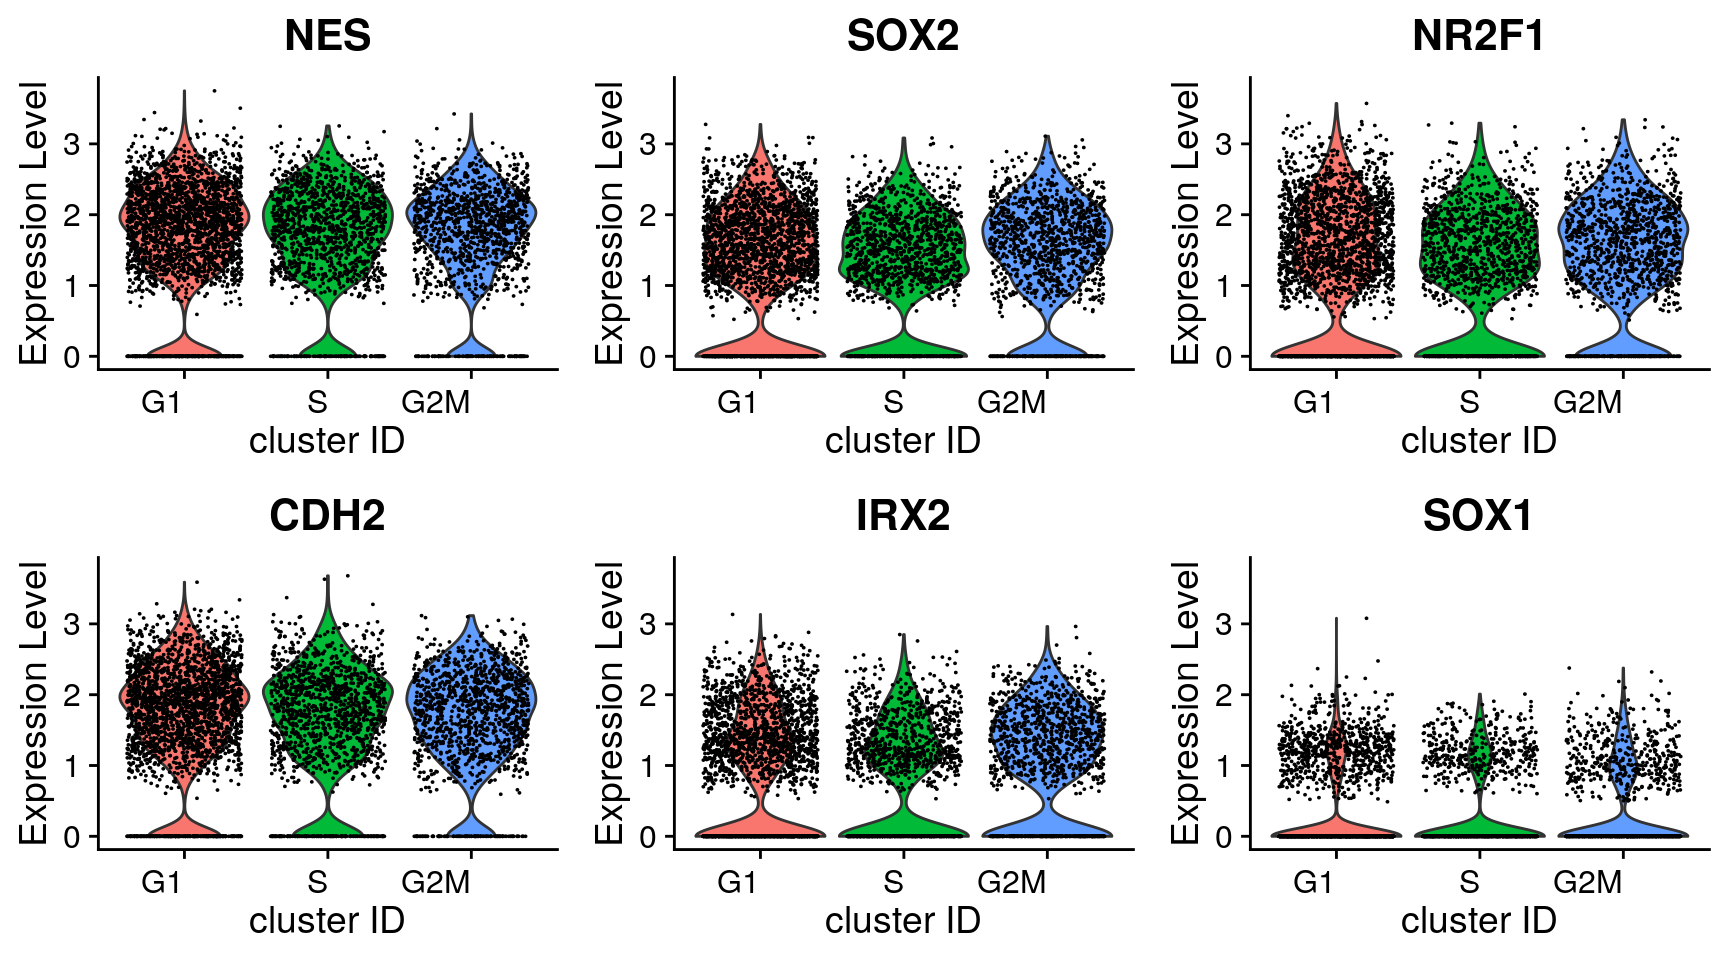
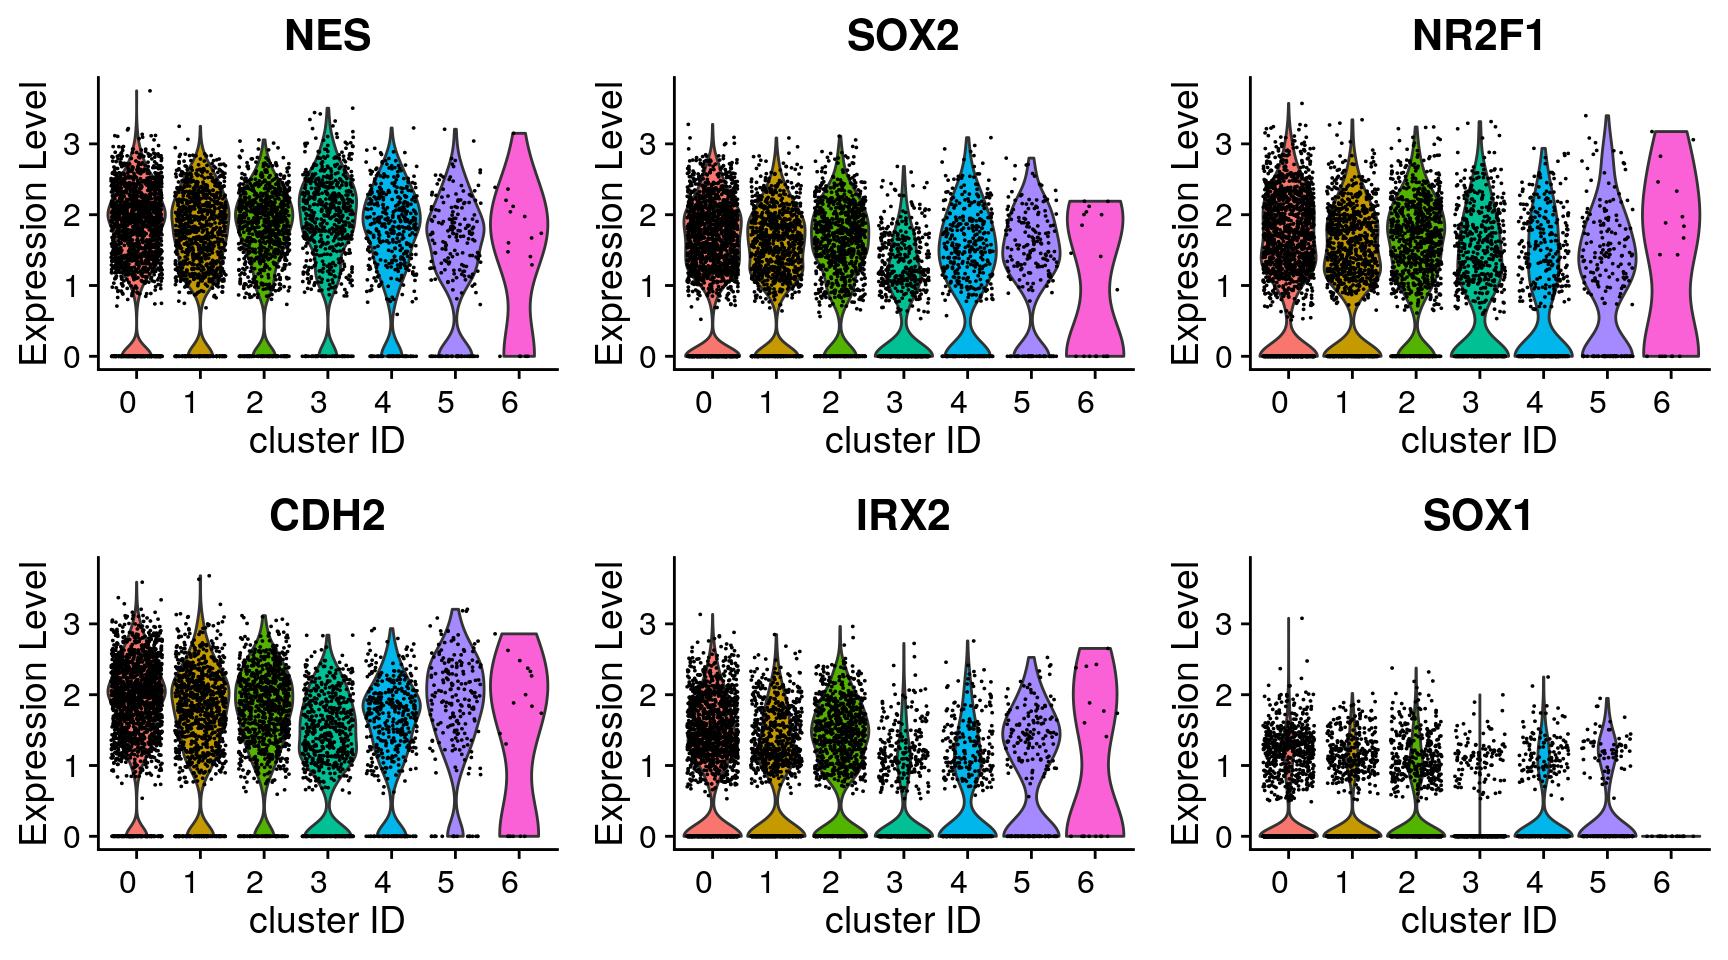
Build site.

diff --git a/docs/NSC-2-annotation.html b/docs/NSC-2-annotation.html
@@ -412,7 +412,7 @@ div.tocify {
 <div class="tab-content">
 <div id="summary" class="tab-pane fade in active">
 <p>
-<strong>Last updated:</strong> 2021-08-24
+<strong>Last updated:</strong> 2021-08-25
 </p>
 <p>
 <strong>Checks:</strong> <span class="glyphicon glyphicon-ok text-success" aria-hidden="true"></span> 7 <span class="glyphicon glyphicon-exclamation-sign text-danger" aria-hidden="true"></span> 0
@@ -503,16 +503,16 @@ This reproducible <a href="http://rmarkdown.rstudio.com">R Markdown</a> analysis
 <div class="panel panel-default">
 <div class="panel-heading">
 <p class="panel-title">
-<a data-toggle="collapse" data-parent="#workflowr-checks" href="#strongRepositoryversionstrongahrefhttpsgithubcomkhembachneuralscRNAseqtreeff22f3d96957f547ed335891afe3a4840c6cc7fetargetblankff22f3da"> <span class="glyphicon glyphicon-ok text-success" aria-hidden="true"></span> <strong>Repository version:</strong> <a href="https://github.com/khembach/neural_scRNAseq/tree/ff22f3d96957f547ed335891afe3a4840c6cc7fe" target="_blank">ff22f3d</a> </a>
+<a data-toggle="collapse" data-parent="#workflowr-checks" href="#strongRepositoryversionstrongahrefhttpsgithubcomkhembachneuralscRNAseqtreeaac74150e9894cb0ffb893fce12749a13025c8d8targetblankaac7415a"> <span class="glyphicon glyphicon-ok text-success" aria-hidden="true"></span> <strong>Repository version:</strong> <a href="https://github.com/khembach/neural_scRNAseq/tree/aac74150e9894cb0ffb893fce12749a13025c8d8" target="_blank">aac7415</a> </a>
 </p>
 </div>
[2 lines of base64/hex data omitted]
 <div class="panel-body">
 <p>
 Great! You are using Git for version control. Tracking code development and connecting the code version to the results is critical for reproducibility.
 </p>
 <p>
-The results in this page were generated with repository version <a href="https://github.com/khembach/neural_scRNAseq/tree/ff22f3d96957f547ed335891afe3a4840c6cc7fe" target="_blank">ff22f3d</a>. See the <em>Past versions</em> tab to see a history of the changes made to the R Markdown and HTML files.
+The results in this page were generated with repository version <a href="https://github.com/khembach/neural_scRNAseq/tree/aac74150e9894cb0ffb893fce12749a13025c8d8" target="_blank">aac7415</a>. See the <em>Past versions</em> tab to see a history of the changes made to the R Markdown and HTML files.
 </p>
 <p>
 Note that you need to be careful to ensure that all relevant files for the analysis have been committed to Git prior to generating the results (you can use <code>wflow_publish</code> or <code>wflow_git_commit</code>). workflowr only checks the R Markdown file, but you know if there are other scripts or data files that it depends on. Below is the status of the Git repository when the results were generated:
@@ -903,6 +903,40 @@ Message
 Rmd
 </td>
 <td>
+<a href="https://github.com/khembach/neural_scRNAseq/blob/aac74150e9894cb0ffb893fce12749a13025c8d8/analysis/NSC-2-annotation.Rmd" target="_blank">aac7415</a>
+</td>
+<td>
+khembach
+</td>
+<td>
+2021-08-25
+</td>
+<td>
+fix ident
+</td>
+</tr>
+<tr>
+<td>
+html
+</td>
+<td>
+<a href="https://rawcdn.githack.com/khembach/neural_scRNAseq/d710af57ae258e89bab8a6e8c62654a77465197a/docs/NSC-2-annotation.html" target="_blank">d710af5</a>
+</td>
+<td>
+khembach
+</td>
+<td>
+2021-08-24
+</td>
+<td>
+Build site.
+</td>
+</tr>
+<tr>
+<td>
+Rmd
+</td>
+<td>
 <a href="https://github.com/khembach/neural_scRNAseq/blob/ff22f3d96957f547ed335891afe3a4840c6cc7fe/analysis/NSC-2-annotation.Rmd" target="_blank">ff22f3d</a>
 </td>
 <td>
@@ -1259,7 +1293,7 @@ g2m_genes &lt;- rownames(GetAssayData(so))[m]
 [51] &quot;ENSG00000178999.AURKB&quot;   &quot;ENSG00000184661.CDCA2&quot;  
 [53] &quot;ENSG00000188229.TUBB4B&quot;  &quot;ENSG00000189159.JPT1&quot;   </code></pre>
 <pre class="r"><code>so &lt;- CellCycleScoring(so, s.features = s_genes, g2m.features = g2m_genes,
-                       set.ident = TRUE)
+                       set.ident = FALSE)
 DefaultAssay(so) &lt;- &quot;integrated&quot;</code></pre>
 </div>
 <div id="dr-colored-by-cluster-id" class="section level1 tabset">
@@ -1307,6 +1341,17 @@ Date
 </tr>
 </thead>
 <tbody>
+<tr>
+<td>
+<a href="https://github.com/khembach/neural_scRNAseq/blob/d710af57ae258e89bab8a6e8c62654a77465197a/docs/figure/NSC-2-annotation.Rmd/dim-red-1.png" target="_blank">d710af5</a>
+</td>
+<td>
+khembach
+</td>
+<td>
+2021-08-24
+</td>
+</tr>
 <tr>
 <td>
 <a href="https://github.com/khembach/neural_scRNAseq/blob/76cf2b50584143243fdc9322e003d855c5080366/docs/figure/NSC-2-annotation.Rmd/dim-red-1.png" target="_blank">76cf2b5</a>
@@ -1361,6 +1406,17 @@ Date
 <tbody>
 <tr>
 <td>
+<a href="https://github.com/khembach/neural_scRNAseq/blob/d710af57ae258e89bab8a6e8c62654a77465197a/docs/figure/NSC-2-annotation.Rmd/dim-red-2.png" target="_blank">d710af5</a>
+</td>
+<td>
+khembach
+</td>
+<td>
+2021-08-24
+</td>
+</tr>
+<tr>
+<td>
 <a href="https://github.com/khembach/neural_scRNAseq/blob/76cf2b50584143243fdc9322e003d855c5080366/docs/figure/NSC-2-annotation.Rmd/dim-red-2.png" target="_blank">76cf2b5</a>
 </td>
 <td>
@@ -1411,6 +1467,17 @@ Date
 </tr>
 </thead>
 <tbody>
+<tr>
+<td>
+<a href="https://github.com/khembach/neural_scRNAseq/blob/d710af57ae258e89bab8a6e8c62654a77465197a/docs/figure/NSC-2-annotation.Rmd/dim-red-3.png" target="_blank">d710af5</a>
+</td>
+<td>
+khembach
+</td>
+<td>
+2021-08-24
+</td>
+</tr>
 <tr>
 <td>
 <a href="https://github.com/khembach/neural_scRNAseq/blob/76cf2b50584143243fdc9322e003d855c5080366/docs/figure/NSC-2-annotation.Rmd/dim-red-3.png" target="_blank">76cf2b5</a>
@@ -2290,6 +2357,43 @@ p &lt;- lapply(seq_along(p), function(x) {
 })
 plot_grid(plotlist = p, ncol = 3, label_size = 10)</code></pre>
 <p><img src="figure/NSC-2-annotation.Rmd/marker-expression-violin-1.png" width="864" style="display: block; margin: auto;" /></p>
+<p>
+<button type="button" class="btn btn-default btn-xs btn-workflowr btn-workflowr-fig" data-toggle="collapse" data-target="#fig-marker-expression-violin-1">
+Past versions of marker-expression-violin-1.png
+</button>
+</p>
+<div id="fig-marker-expression-violin-1" class="collapse">
+<div class="table-responsive">
+<table class="table table-condensed table-hover">
+<thead>
+<tr>
+<th>
+Version
+</th>
+<th>
+Author
+</th>
+<th>
+Date
+</th>
+</tr>
+</thead>
+<tbody>
+<tr>
+<td>
+<a href="https://github.com/khembach/neural_scRNAseq/blob/d710af57ae258e89bab8a6e8c62654a77465197a/docs/figure/NSC-2-annotation.Rmd/marker-expression-violin-1.png" target="_blank">d710af5</a>
+</td>
+<td>
+khembach
+</td>
+<td>
+2021-08-24
+</td>
+</tr>
+</tbody>
+</table>
+</div>
+</div>
 <pre class="r"><code>DefaultAssay(so) &lt;- &quot;integrated&quot;</code></pre>
 <br>
 <p>
